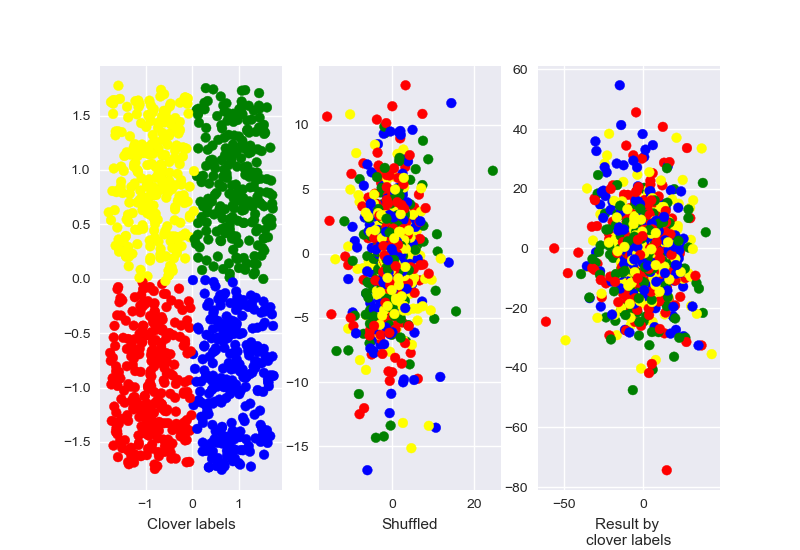
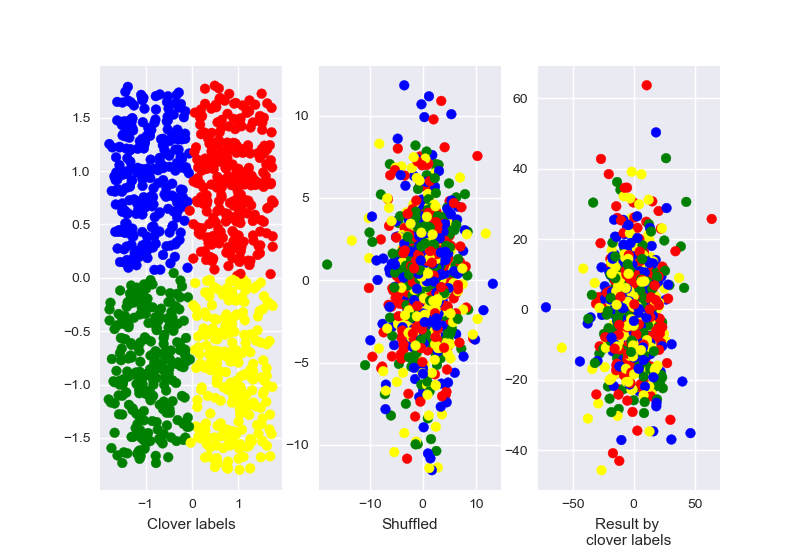
restrict beta to be positive, added blanchard estimation scoring, optimize pca+svm params - need to fix clover optimization

diff --git a/utilities.py b/utilities.py
@@ -1,6 +1,10 @@
 import numpy as np
 from numpy import linalg as LA
 import math
+import matplotlib
+import constant
+from matplotlib import pyplot as plt
+import time
 # from scipy import linalg
 from scipy.linalg import hadamard
 import seaborn as sns
@@ -13,6 +17,8 @@ from mpl_toolkits.mplot3d import Axes3D
 import itertools
 from sklearn.metrics.cluster import adjusted_rand_score
 from sklearn.svm import SVC
+from sklearn.pipeline import Pipeline
+from sklearn.model_selection import GridSearchCV
 from sklearn.decomposition import PCA
 from sklearn.preprocessing import StandardScaler
 
@@ -69,14 +75,83 @@ def generate_shuffled_data(data):
 
 
 def perform_pca(data):
-    data = StandardScaler().fit_transform(data)
+    scaler = StandardScaler()
+    scaler.fit(data)
+    feature_scaled = scaler.transform(data)
+
     pca = PCA(n_components=3, svd_solver='full')
-    principal_components = pca.fit_transform(data)
+    principal_components = pca.fit_transform(feature_scaled)
+
     return principal_components
+
+
+def PCA_SVM_optimal(find_best_params=False):
+
+    # get data
+    train_data = download_data('DataTrn')
+    train_labels = download_labels('DataTrn')
+    validation_data = download_data('DataVdn')
+    validation_labels = download_labels('DataVdn')
+    test_data = download_data('DataTst')
+    test_labels = download_labels('DataTst')
+
+    #TODO replace with perform_PCA function
+    # perform PCA
+    scaler = StandardScaler()
+    scaler.fit(test_data)
+    test_data_scaled = scaler.transform(test_data)
+    pca = PCA(n_components=3)
+    test_data_scaled_reduced = pca.fit_transform(test_data_scaled)
+
+    scaler1 = StandardScaler()
+    scaler1.fit(train_data)
+    train_data_scaled = scaler.transform(train_data)
+    pca1 = PCA(n_components=3)
+    train_data_scaled_reduced = pca1.fit_transform(train_data_scaled)
+
+    if find_best_params:
+        # get optimal params
+        pipe_steps = [('scaler', StandardScaler()), ('pca', PCA()), ('SupVM', SVC(kernel='rbf'))]
+        pipeline = Pipeline(pipe_steps)
+        check_params = {
+            'pca__n_components': [3],
+            'SupVM__C': [0.1, 0.5, 1, 10, 30, 40, 50, 75, 100, 500, 1000],
+            'SupVM__gamma': [0.001, 0.005, 0.01, 0.05, 0.07, 0.1, 0.5, 1, 5, 10, 50]
+        }
+
+        create_grid = GridSearchCV(pipeline, param_grid=check_params, cv=5)
+        create_grid.fit(train_data, train_labels)
+        print("score for 5 fold CV is %3.2f" % (create_grid.score(test_data, test_labels)))
+        print('best params')
+        print(create_grid.best_params_)
+
+
+    # build SVM model
+    if find_best_params:
+        svm_model = SVC(kernel='rbf', C=float(create_grid.best_params_['SupVM__C']), gamma=float(create_grid.best_params_['SupVM__gamma']))
+    else:
+        svm_model = SVC(kernel='rbf', C=500, gamma=0.1)  #found the optimal once
+
+    # svm_model.fit(test_data_scaled_reduced, test_labels)
+    svm_model.fit(train_data_scaled_reduced, train_labels)
+    test_score = svm_model.score(test_data_scaled_reduced, test_labels)
+
+    fig = plt.figure()
+    ax = fig.add_subplot(111, projection='3d')
+
+    # plot first three dimensions of data
+    ax.scatter(test_data_scaled_reduced[:, 0], test_data_scaled_reduced[:, 1], test_data_scaled_reduced[:, 2], c=test_labels,
+               cmap=matplotlib.colors.ListedColormap(constant.CLUSTERS_3_COLORS))
+
+    plt.show()
+    # plt.savefig('results/test_oil_data_after_pca.png')
+
+    print('end')
 
 
 # score initial data (with or without PCA run) by SVM model
 def score_initial_data_by_svm(under_pca=False):
+
     # get samples and labels from train and validation data
     train_data = download_data('DataTrn')
     train_labels = download_labels('DataTrn')
@@ -92,16 +167,18 @@ def score_initial_data_by_svm(under_pca=False):
         validation_data = perform_pca(validation_data)
         test_data = perform_pca(test_data)
         clf.fit(train_data, train_labels)
+        train_score = clf.score(train_data, train_labels)
         validation_score = clf.score(validation_data, validation_labels)
         test_score = clf.score(test_data, test_labels)
     else:
         clf.fit(train_data, train_labels)
-        predicted_validation_labels = clf.predict(validation_data)
+        # predicted_validation_labels = clf.predict(validation_data)
+        train_score = clf.score(train_data, train_labels)
         validation_score = clf.score(validation_data, validation_labels)
         test_score = clf.score(test_data, test_labels)
 
-    print('Validation score is {}\nTest score is {}'.format(validation_score, test_score))
-    return validation_score, test_score
+    print('Train score is {}\nValidation score is {}\nTest score is {}'.format(train_score, validation_score, test_score))
+    return train_score, validation_score, test_score
 
 
 def get_result_score_by_kmeans(proj_data, labels_true, components_num):
@@ -124,6 +201,35 @@ def compare_labels_for_blanchard_result(file_name):
     print_score(score)
 
 
+def blanchard_scoring_by_svm():
+
+    # get samples and labels from train and validation data
+    train_data = download_data('DataTrn')
+    train_labels = download_labels('DataTrn')
+    validation_data = download_data('DataVdn')
+    validation_labels = download_labels('DataVdn')
+    test_data = download_data('DataTst')
+    test_labels = download_labels('DataTst')
+
+    # Run blanchard algorithm on train data and get ngspace from matlab script
+    approx_ng_subspace = np.loadtxt(fname="datasets/blanchard_ngspace.txt")
+
+    # Project train and validation data on the result subspace
+    proj_train_data = np.dot(train_data, approx_ng_subspace)
+    proj_validation_data = np.dot(validation_data, approx_ng_subspace)
+    proj_test_data = np.dot(test_data, approx_ng_subspace)
+
+    # build SVM classifier - fit by train data
+    clf = SVC(gamma='auto')
+    clf.fit(proj_train_data, train_labels)
+    train_score = clf.score(proj_train_data, train_labels)
+    validation_score = clf.score(proj_validation_data, validation_labels)
+    test_score = clf.score(proj_test_data, test_labels)
+
+    print('Train score is {}\nValidation score is {}\nTest score is {}'.format(train_score, validation_score, test_score))
+    return train_score, validation_score, test_score
+
+
 def calculate_centers_by_labels(X, labels):
     res = np.concatenate((X[labels == 0, :].mean(axis=0)[np.newaxis], X[labels == 1, :].mean(axis=0)[np.newaxis]), axis=0)
     res = np.concatenate((res, X[labels == 2, :].mean(axis=0)[np.newaxis]), axis=0)
@@ -133,7 +239,7 @@ def calculate_centers_by_labels(X, labels):
 def algorithm_params_to_print(params):
     if params:
         return 'alpha1={}|alpha2={}|beta1={}|beta1={}'.format(round(params['alpha1'], 2), round(params['alpha2'], 2),
-                                                          round(params['beta1'], 2), round(params['beta2'], 2))
+                                                          round(params['beta1'][0], 2), round(params['beta2'][0], 2))
     else:
         return 'blanchard'
 

diff --git a/ngca_algorithm.py b/ngca_algorithm.py
@@ -6,8 +6,10 @@ from sklearn.svm import SVC
 from sklearn.cluster import KMeans
 from sklearn.metrics.cluster import adjusted_rand_score
 
+
 # Features as columns
 # Samples as rows
+
 
 def compute_matrix_phi(samples, samples_copy, alpha):
     result = 0
@@ -221,26 +223,29 @@ def score_ngca_on_clover_data_by_svm(alpha1, alpha2, beta1, beta2):
     train_data = utilities.download_data('cloverDataTrn')
     kmeans_train_data = KMeans(n_clusters=4, random_state=0).fit(train_data)  # Get 4 clusters lables
     train_labels = kmeans_train_data.labels_
-    validation_shuffled_data = utilities.download_data('cloverDataShuffledVdn')
-    validation_data = utilities.download_data('cloverDataVdn')
-    kmeans_validation_data = KMeans(n_clusters=4, random_state=0).fit(validation_data)  # Get 4 clusters lables
-    validation_labels = kmeans_validation_data.labels_
+
+    # validation_shuffled_data = utilities.download_data('cloverDataShuffledVdn')
+    # validation_data = utilities.download_data('cloverDataVdn')
+    # kmeans_validation_data = KMeans(n_clusters=4, random_state=0).fit(validation_data)  # Get 4 clusters lables
+    # validation_labels = kmeans_validation_data.labels_
 
     # Run algorithm on samples from train data
     train_samples, train_samples_copy = utilities.download_data('cloverDataShuffledTrn', separate_data=True)
     approx_ng_subspace = run_ngca_algorithm(train_samples, train_samples_copy, alpha1, alpha2, beta1, beta2)
 
+    # TODO assert approx_ng_subspace dimension == 2 (clover)
     # Project train and validation data on the result subspace
     proj_train_shuffled_data = np.dot(train_shuffled_data, approx_ng_subspace)
-    proj_validation_shuffled_data = np.dot(validation_shuffled_data, approx_ng_subspace)
+    # proj_validation_shuffled_data = np.dot(validation_shuffled_data, approx_ng_subspace)
 
     # build SVM classifier - fit by train data and check predication of validation data
     clf = SVC(gamma='auto')
     clf.fit(proj_train_shuffled_data, train_labels)
-    predicted_validation_labels = clf.predict(proj_validation_shuffled_data)
+    # predicted_validation_labels = clf.predict(proj_validation_shuffled_data)
 
     # assign score
-    score = clf.score(proj_validation_shuffled_data, validation_labels)  # score by SVM model
-    score_to_check = adjusted_rand_score(validation_labels, predicted_validation_labels) 
+    score = clf.score(proj_train_shuffled_data, train_labels)  # score by SVM model
+    # score = clf.score(proj_validation_shuffled_data, validation_labels)  # score by SVM model
+    # score_to_check = adjusted_rand_score(validation_labels, predicted_validation_labels)
     return 1 - score  # we want to minimize score
 

diff --git a/optimize_clover_data_by_svm.py b/optimize_clover_data_by_svm.py
@@ -13,9 +13,12 @@ from ngca_algorithm import score_ngca_on_clover_data_by_svm as score_ngca_on_clo
 
 
 def evaluate_test_data_by_svm(algorithm_params):
-    samples, samples_copy = utilities.download_data('cloverDataShuffledTst', separate_data=True)
-    shuffled_data_full = utilities.download_data('cloverDataShuffledTst')
-    clover_data = utilities.download('cloverDataTst')
+    # samples, samples_copy = utilities.download_data('cloverDataShuffledTst', separate_data=True)
+    samples, samples_copy = utilities.download_data('cloverDataShuffledTrn', separate_data=True)
+    # shuffled_data_full = utilities.download_data('cloverDataShuffledTst')
+    shuffled_data_full = utilities.download_data('cloverDataShuffledTrn')
+    # clover_data = utilities.download('cloverDataTst')
+    clover_data = utilities.download('cloverDataTrn')
 
     # run NGCA on shuffled data
     approx_ng_subspace = run_ngca_algorithm(samples, samples_copy, algorithm_params)
@@ -52,8 +55,8 @@ def main():
 
     instrum = ng.Instrumentation(alpha1=ng.var.Array(1).asscalar(),
                                  alpha2=ng.var.Array(1).asscalar(),
-                                 beta1=ng.var.Array(1).asscalar(),
-                                 beta2=ng.var.Array(1).asscalar())
+                                 beta1=ng.var.Array(1).bounded(a_min=0, a_max=constant.MAX_BETA_VALUE),
+                                 beta2=ng.var.Array(1).bounded(a_min=0, a_max=constant.MAX_BETA_VALUE))
     optimizer = ng.optimizers.CMA(instrumentation=instrum, budget=10)
 
     for i in range(optimizer.budget):

diff --git a/optimize_oil_data_by_svm.py b/optimize_oil_data_by_svm.py
@@ -109,8 +109,8 @@ def main():
     # Optimize params on test and validation datasets
     instrum = ng.Instrumentation(alpha1=ng.var.Array(1).asscalar(),
                                  alpha2=ng.var.Array(1).asscalar(),
-                                 beta1=ng.var.Array(1).asscalar(),
-                                 beta2=ng.var.Array(1).asscalar())
+                                 beta1=ng.var.Array(1).bounded(a_min=0, a_max=constant.MAX_BETA_VALUE),
+                                 beta2=ng.var.Array(1).bounded(a_min=0, a_max=constant.MAX_BETA_VALUE))
     optimizer = ng.optimizers.DiagonalCMA(instrumentation=instrum, budget=100)
     # recommendation = optimizer.minimize(score_ngca_on_oil_data_by_kmeans)
 

diff --git a/optimize_oil_data_by_kmeans.py b/optimize_oil_data_by_kmeans.py
@@ -115,8 +115,8 @@ def main():
     # Optimize params on test and validation datasets
     instrum = ng.Instrumentation(alpha1=ng.var.Array(1).asscalar(),
                                  alpha2=ng.var.Array(1).asscalar(),
-                                 beta1=ng.var.Array(1).asscalar(),
-                                 beta2=ng.var.Array(1).asscalar())
+                                 beta1=ng.var.Array(1).bounded(a_min=0, a_max=constant.MAX_BETA_VALUE),
+                                 beta2=ng.var.Array(1).bounded(a_min=0, a_max=constant.MAX_BETA_VALUE))
     optimizer = ng.optimizers.OnePlusOne(instrumentation=instrum, budget=100)
     # recommendation = optimizer.minimize(score_ngca_on_oil_data_by_kmeans)
 

diff --git a/experiments.py b/experiments.py
@@ -5,10 +5,12 @@ import utilities
 
 
 def main():
-    score_ngca_on_clover_data_by_svm(0.1, 0.1, 0.1, 0.1)
+    # score_ngca_on_clover_data_by_svm(0.1, 0.1, 0.1, 0.1)
     # utilities.score_initial_data_by_svm(under_pca=True)
-    # utilities.compare_labels_for_blanchard_result('DataTst')
+    utilities.PCA_SVM_optimal()
+    # utilities.blanchard_scoring_by_svm()
     # run_on_oil_data_scoring()
+
     return
 
 

diff --git a/constant.py b/constant.py
@@ -1,2 +1,3 @@
 CLUSTERS_3_COLORS = ['red', 'green', 'blue']  # color per label
 CLUSTERS_4_COLORS = ['red', 'green', 'blue', 'yellow']  # color per label
+MAX_BETA_VALUE = 5
